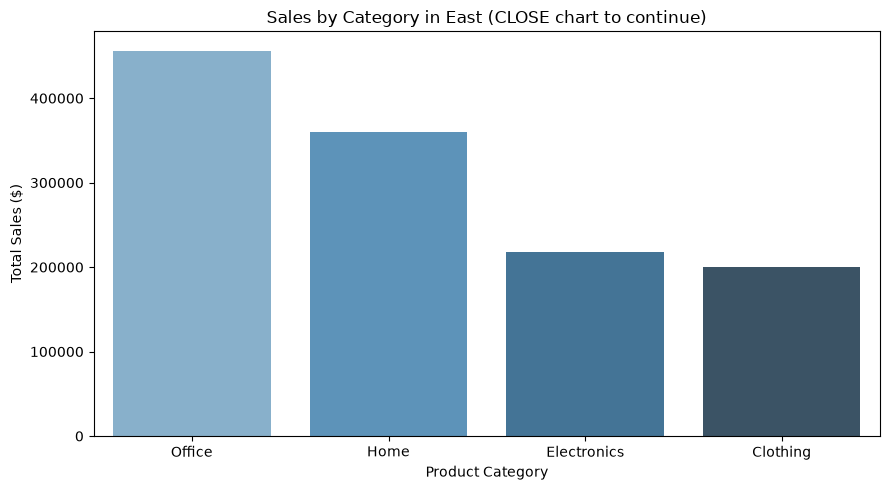
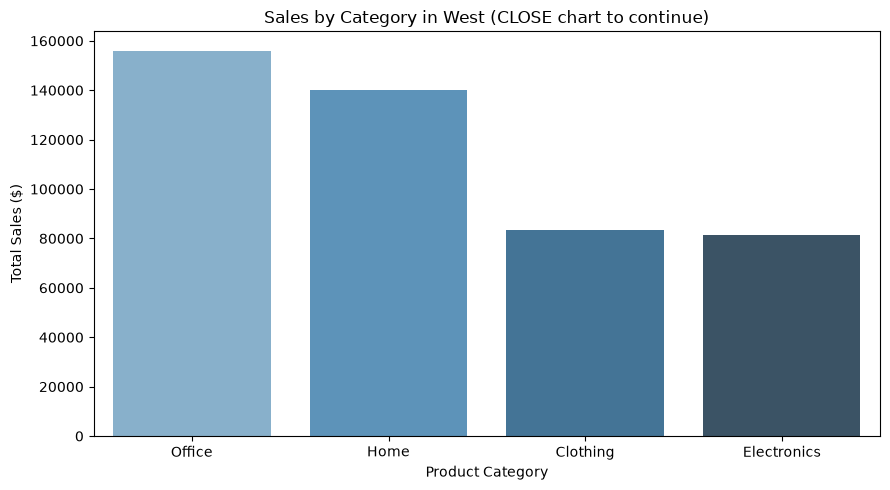
Updated documentation

diff --git a/docs/index.md b/docs/index.md
@@ -23,7 +23,7 @@ to get the example projects running on your machine.
 
 The example project answers this business question:
 
-> Which product category contributes the most sales in the selected region,
+> Which product category contributes the most sales in the West region,
 > and when are its sales strongest?
 
 The example follows a general BI storytelling process:
@@ -36,50 +36,41 @@ The example follows a general BI storytelling process:
 6. Explain the findings in your documentation.
 7. Recommend an action or next question.
 
-Your project should follow the same general process,
-but answer a different business question.
 
 ## Phase 4. Technical Modification
 
-Make one small technical modification to the example project.
-
-Possible modifications include:
-
-- Change a selected value.
-- Change a chart title.
-- Change a chart label.
-- Change a chart palette.
-- Change a chart output file name.
-- Display in a different sort order.
-- Change a log message to be more clear or better formatted.
-
-Describe your small technical modification to the example project.
-
-Include:
-
 - What you changed
-- Why you chose that change
-- How you verified that it worked
-- What result, output, chart, metric, or behavior confirmed the change
+  - The .py file was copied and changed to reflect a new name for
+    modifications made.
+  - The chart names were changed to reflect the new images that were
+    to be used in the new business problem
 
-Compared with the example project,
-explain what is different and why the change matters.
+- Why you chose that change
+    I new that I was going to make another change that would impact the visuals in the project, so I wanted to distinguish the outcome files in order to reference them easier.
+- How you verified that it worked
+    I ran the program and was able to see the new .png files in VSCode as well as in the project.log file
+- What result, output, chart, metric, or behavior confirmed the change
+   The visualizations will be the same, however the names of the png files would be changed and the project.log and results on screen would be now visibily show the new file names. 
 
 Was it easy, or surprisingly challenging and why do you think so?
+    This was rather easy
 
 ## Phase 5. Custom Project
 
-Describe your custom BI storytelling project.
 
 ### Basis and Problem
 
 Describe the data you started with.
-
-Include:
+  I queried the dataset sales_reporting_miller.csv.
 
 - Which tables you queried and which columns you used
+  I used the columns Region, Category, YearMonth, and SaleAmount. The data was first filtered to the West region, then grouped by Category to identify the highest-selling product category. Finally, the top category was analyzed by YearMonth to identify monthly sales trends.
+
 - Why those columns are relevant to your business goal
+  These columns directly support the business goal of determining which product category generates the most sales in the West region and identifying when sales are strongest. Region isolates the area being analyzed, Category groups products for comparison, YearMonth shows sales trends over time, and SaleAmount provides the numeric measure used to calculate total sales.
+
 - Any data limitations that affect your conclusions
+  This analysis is based only on the reporting-ready sales data for the selected region. While it helps identify sales trends by category and month, it doesn't tell us why those trends exist. There could be other factors affecting sales, such as promotions, inventory levels, seasonal events, or customer buying habits that aren't included in this dataset.
 
 ### Business Question
 
@@ -87,77 +78,45 @@ State the exact business question you chose.
 
 For example:
 
-> Which product category has the lowest total sales in the selected region, and during which month are its sales weakest?
+Which product category contributes the most sales in the West region,
+> and when are its sales strongest?
 
-Your question should be:
 
-- Clear
-- Specific
-- Answerable with the available data
-- Similar in scope to the example project
-
-Explain:
-
-- Why the question might matter to the business
-- What decision or next step the result could support
-- What **action** could be taken based on the answer
 
 ### Analysis Approach
 
-Describe how you answered the question.
+How you filtered the reporting data: I filtered the reporting-ready data to include only sales from the West region.
 
-Include:
+Which dimension you grouped by: I grouped the data by Category.
 
-- How you filtered the reporting data
-- Which dimension you grouped by
-- Which measure you aggregated
-- Whether you sorted from highest to lowest or lowest to highest
-- How the first result guided the second part of the analysis
-- Which charts you created
+Which measure you aggregated: I aggregated the SaleAmount column by calculating the total sales.
+
+Whether you sorted from highest to lowest or lowest to highest: I sorted the results from highest to lowest to identify the top-selling category.
+
+How the first result guided the second part of the analysis: After identifying the top-selling category, I used that category to analyze monthly sales trends and determine when sales were strongest.
+
+Which charts you created: I created a bar chart showing total sales by category and a line chart showing monthly sales for the top category in the West region.
 
 ### Charts and Evidence
 
-Create at least two connected charts.
+Chart 1
+Title: Sales by Product Category in the West Region
+Axes: X-axis = Product Category, Y-axis = Total Sales Revenue
+Readability: Categories are clearly labeled and easy to compare.
+Saved: The chart was saved in the project output folder and displayed in the documentation page.
+Evidence: This chart identifies the highest-selling product category in the West region and answers the first part of the business question.
 
-The first chart should answer the first part of your business question,
-often an initial comparison or result.
 
-The second chart should be a connected look deeper at that initial result.
-
-For each chart:
-
-- Use a clear title
-- Label the axes
-- Make the chart readable
-- Save the chart in the project
-- Display the chart in this documentation page
-- Explain what evidence the chart provides
 
 ### Findings and Recommendation
 
-Describe what you found and what you recommend.
-
-Include:
-
-- The main result of your analysis
-- Whether the result was expected or surprising
-- A specific recommended business action based on the data
-- One reasonable action or next question
-- Any limitations or cautions
+The analysis identified the highest-selling product category in the West region and showed how its sales changed over time. While I expected one category to stand out, the monthly trends provided additional insight into when sales were strongest. Based on these results, I would recommend focusing promotions and inventory planning around the top-performing category during peak sales periods. As a next step, I would compare the results across other regions to see if the same trends exist. One limitation is that this analysis only shows what happened based on the available sales data and does not explain why those trends occurred.
 
 ### Storytelling Summary
 
-Summarize your custom storytelling project.
 
-Include:
 
-- The business question / problem / goal you addressed
-- The data you started with
-- The main result
-- The insight you produced
-- The action or next question you recommended
-- What you learned about BI storytelling
-- How this process could support business intelligence in general
+My business goal was to identify the highest-selling product category in the West region and determine when that category performed best throughout the year. I started with the reporting-ready sales dataset and filtered it to the West region before comparing total sales by product category. After identifying the top-performing category, I analyzed its monthly sales trends to gain additional insight into when sales were strongest. Based on the results, I recommended focusing promotions and inventory planning around that category during peak sales periods and comparing the findings with other regions to see if similar patterns exist. This project reinforced that BI storytelling is more than creating charts—it is about using data to answer a business question, explain the results, and support informed decision-making. The first chart shows the initial comparison of sales by category, while the second chart builds on that result by showing the monthly sales trend for the top-performing category.
 
 Display at least two charts along with your narrative:
 
